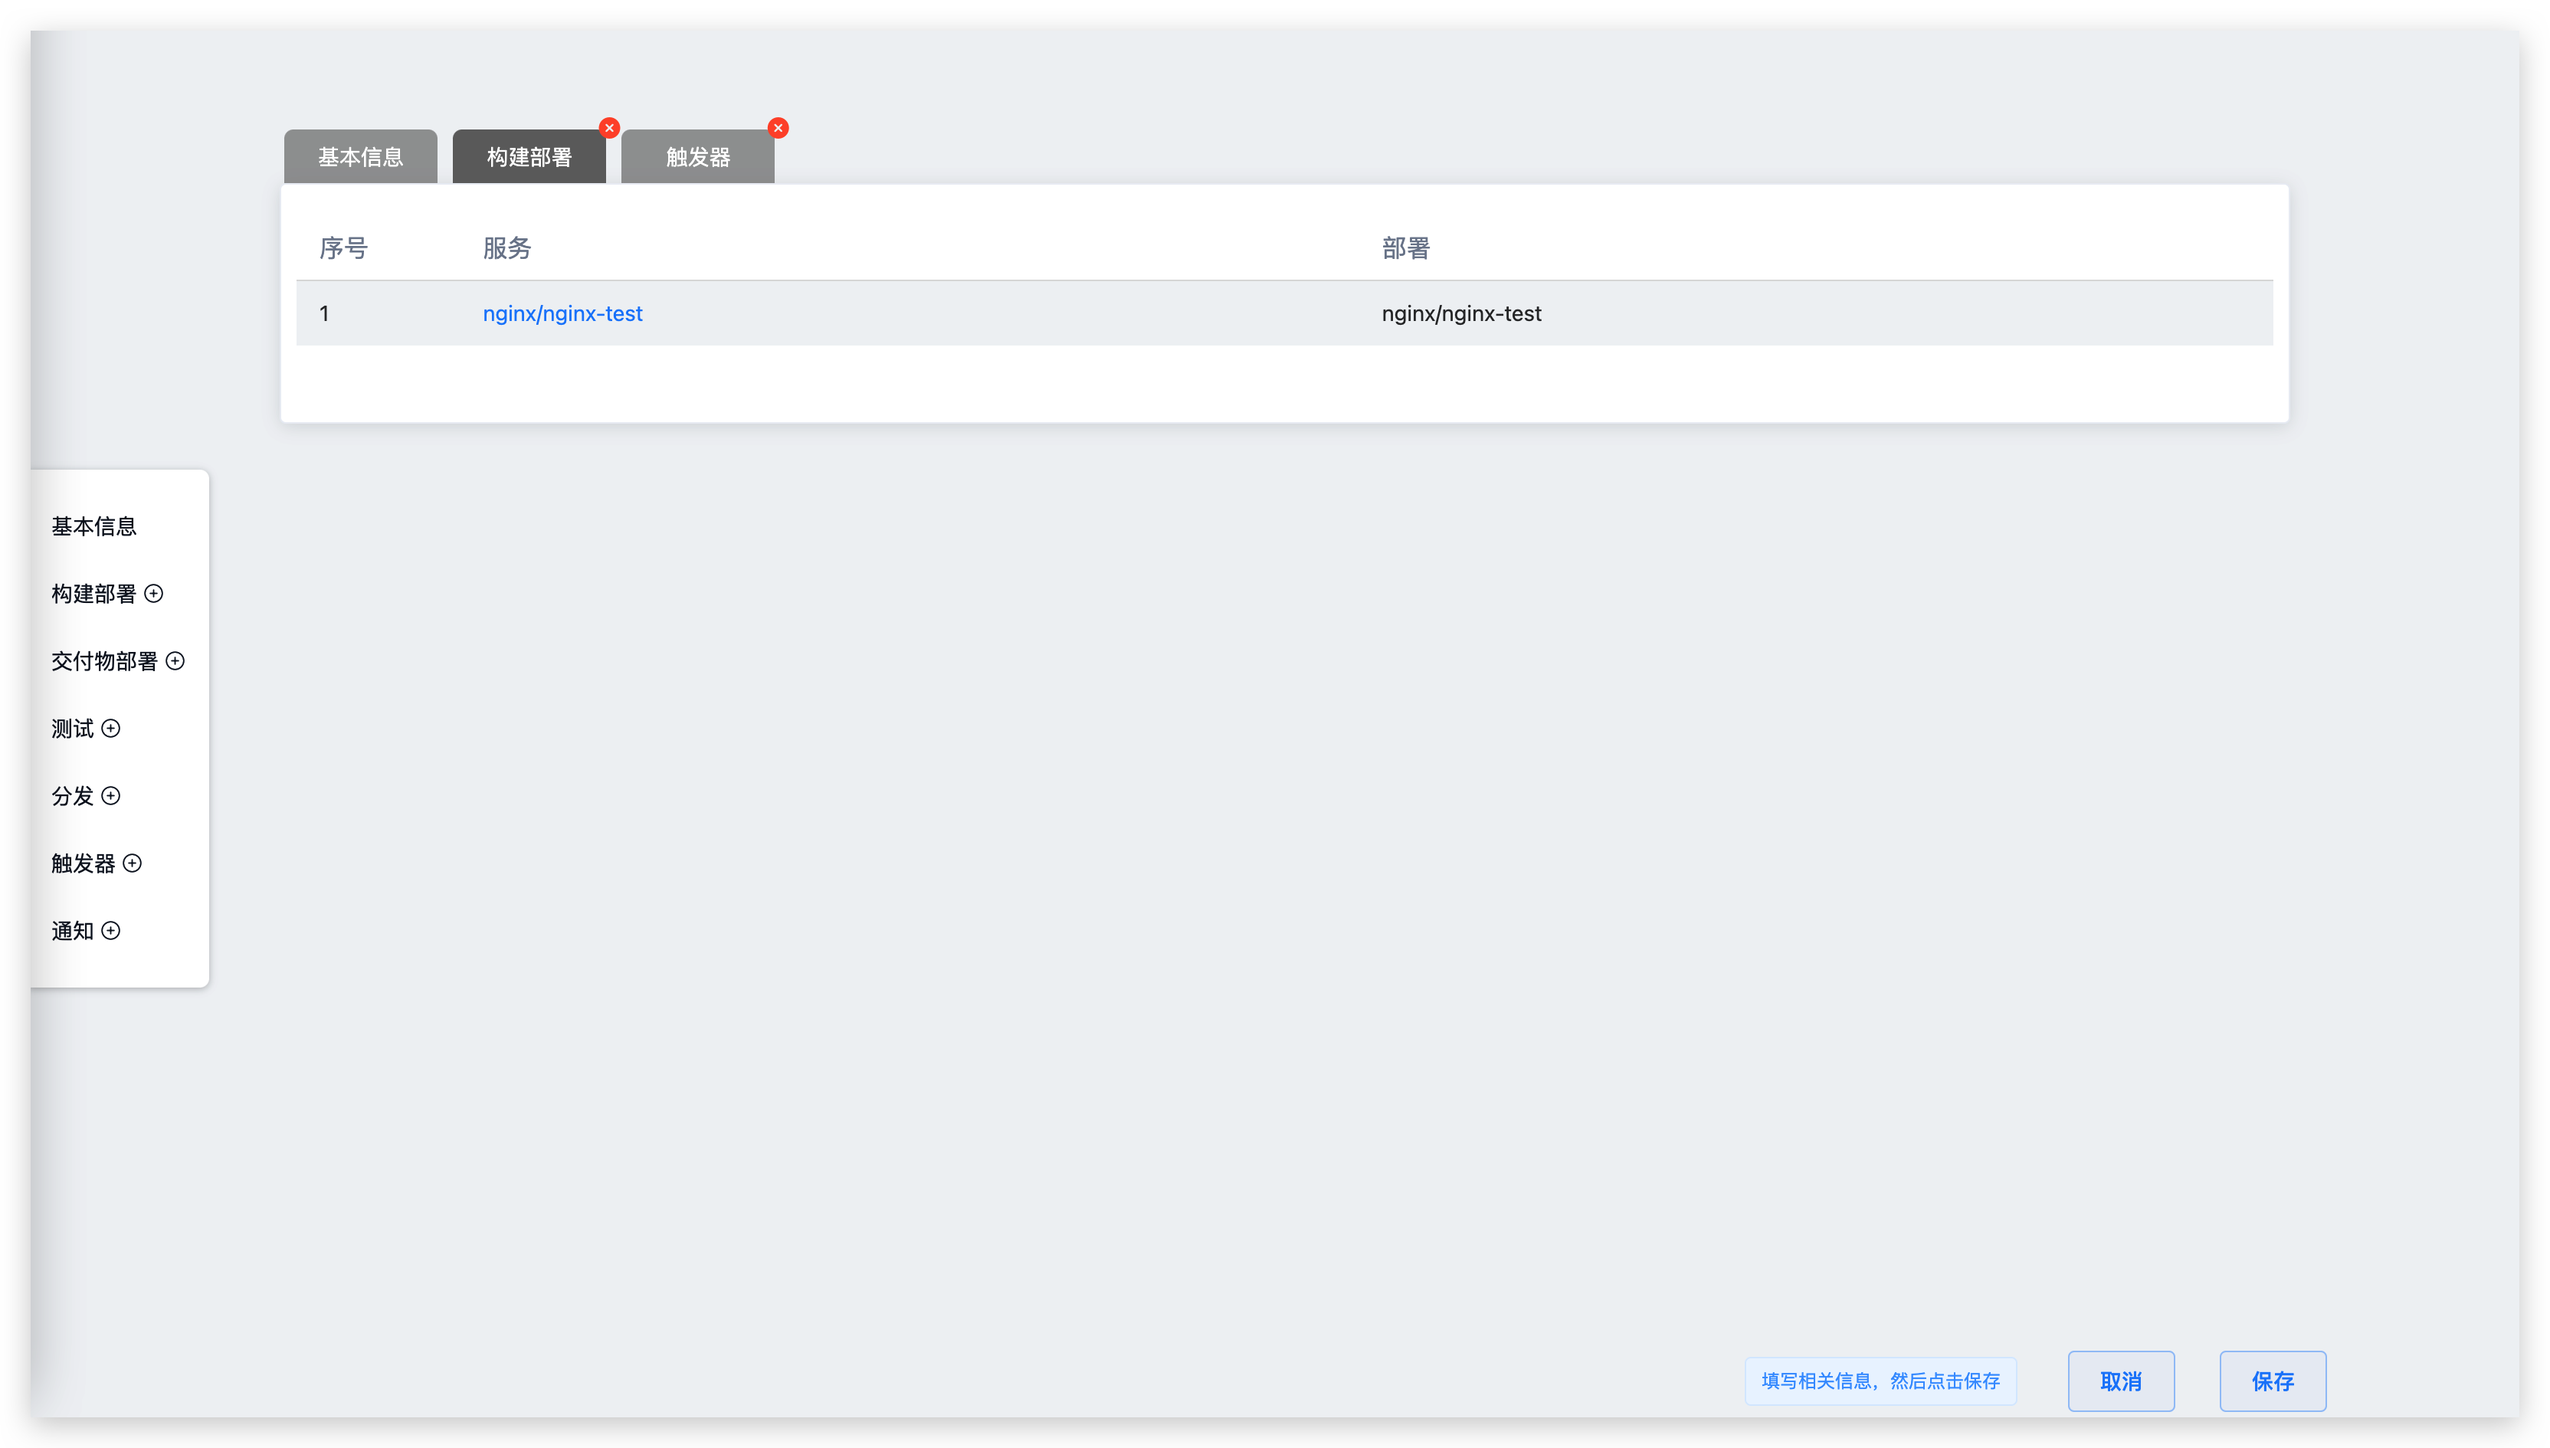
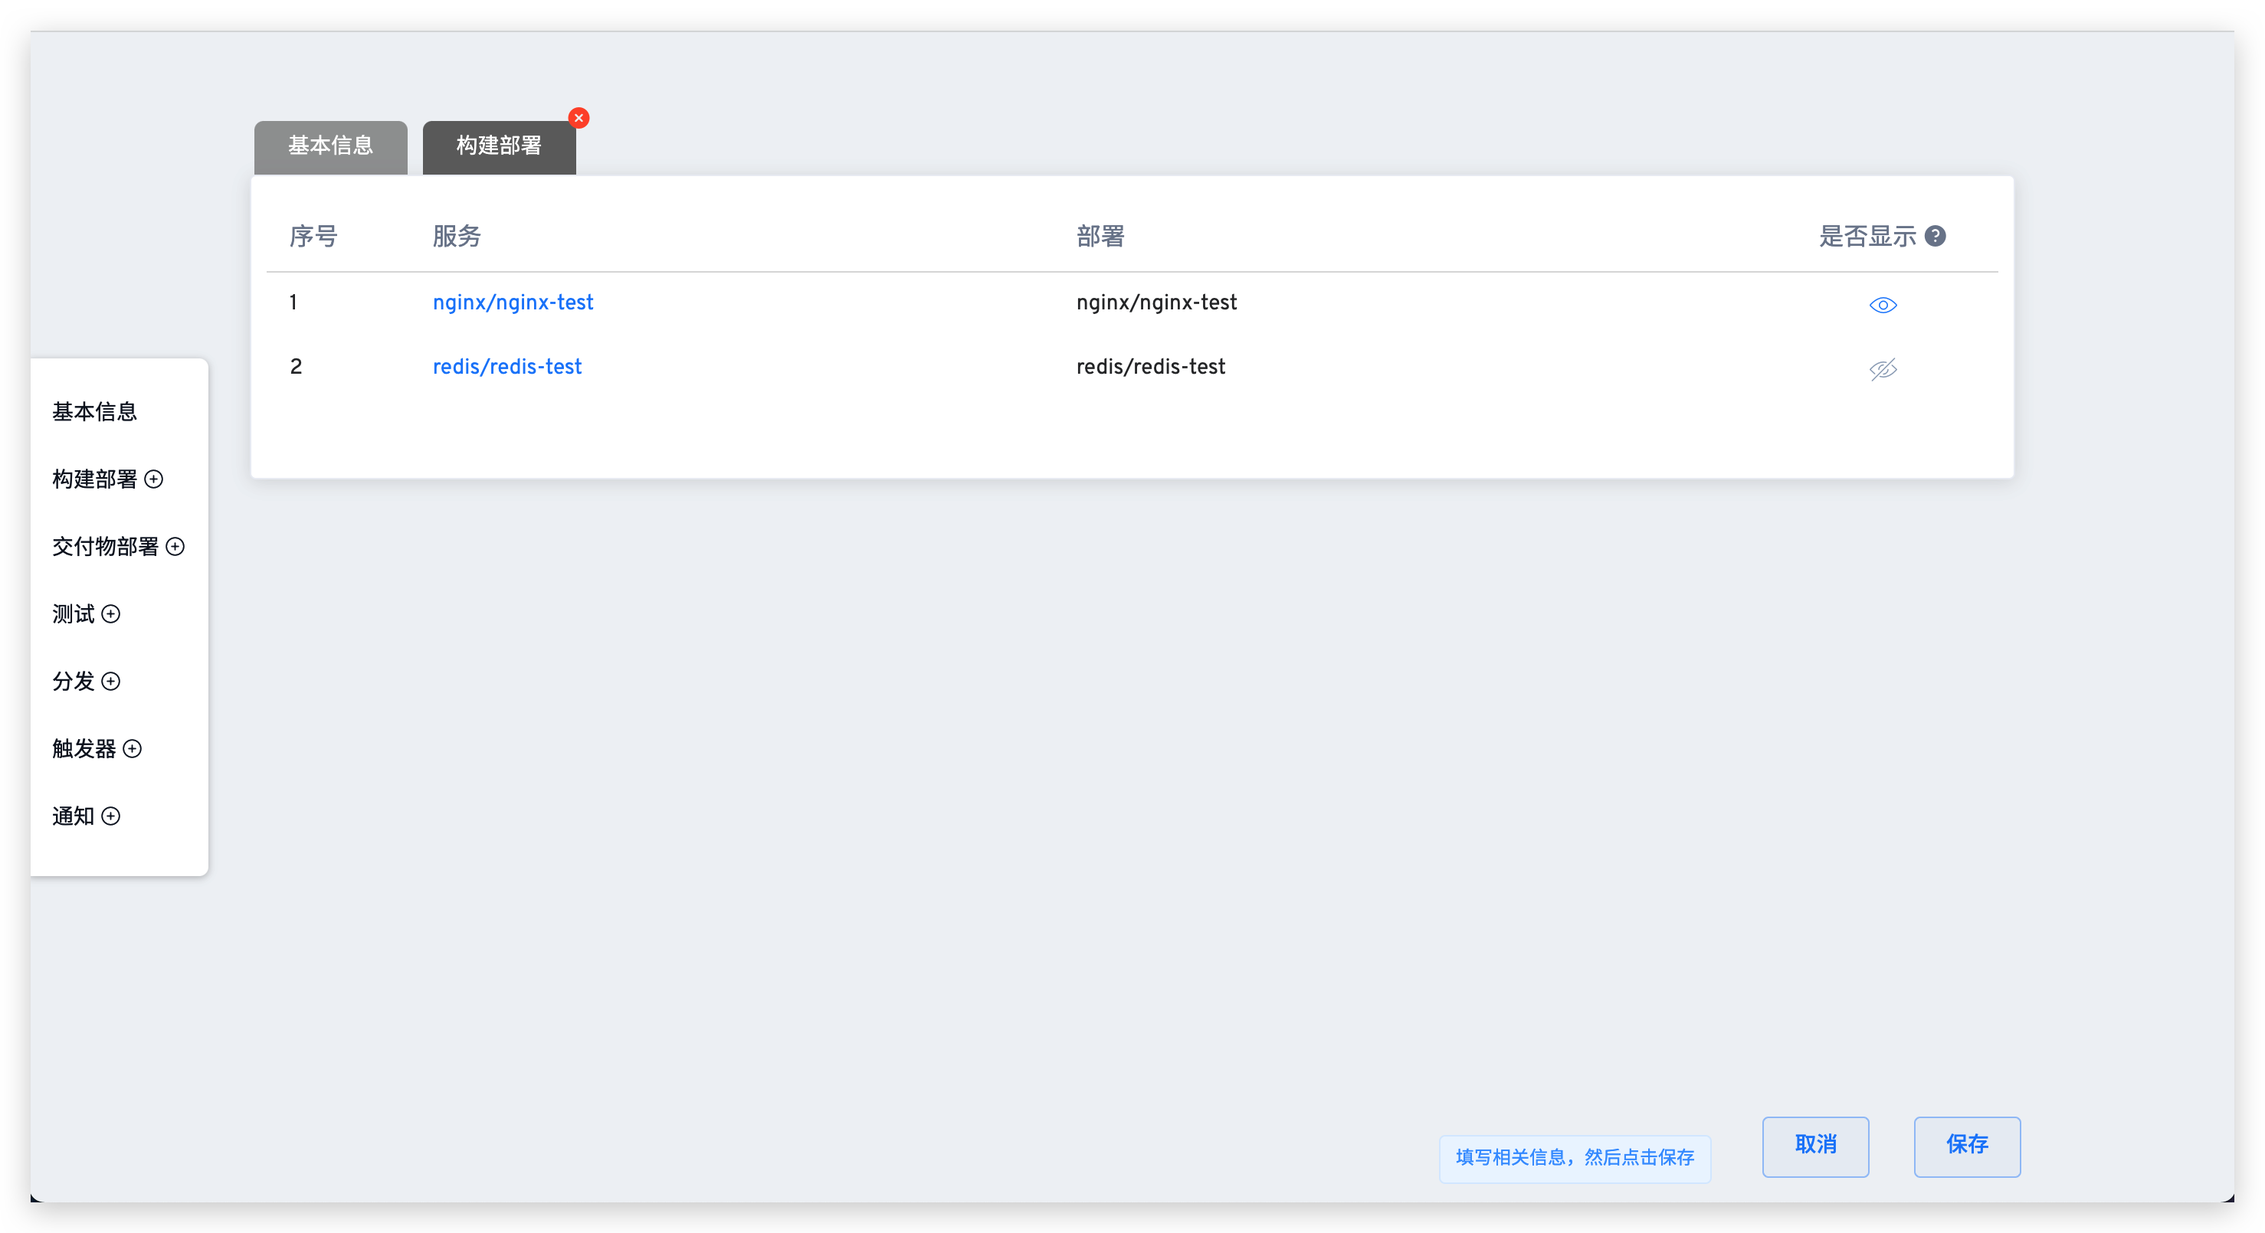
hide or show service in pipeline config

diff --git a/dev/04.项目/02.workflow.md b/dev/04.项目/02.workflow.md
@@ -30,9 +30,18 @@ permalink: /dev/project/workflow/
 ### 构建部署
 
 为服务配置构建后，工作流通过构建部署模块提供更新环境的能力。
+
 > 服务构建配置细节可参阅[构建配置](/dev/project/build/)
 
 ![workflow](./_images/workflow_build.png)
+
+参数说明：
+
+- `服务`：用于预览，内容的格式为`服务名/服务组件名`，点击服务可跳转查看该服务的配置详情。
+- `部署`：用于预览，内容的格式为`服务名/服务组件名`。
+- `是否显示`：用于设置在启动工作流任务时，是否在服务列表中显示该服务。上图例中设置 `redis` 服务为不显示后，运行工作流时效果如下：
+
+![workflow](./_images/workflow_build_2.png)
 
 ### 交付物部署
 
